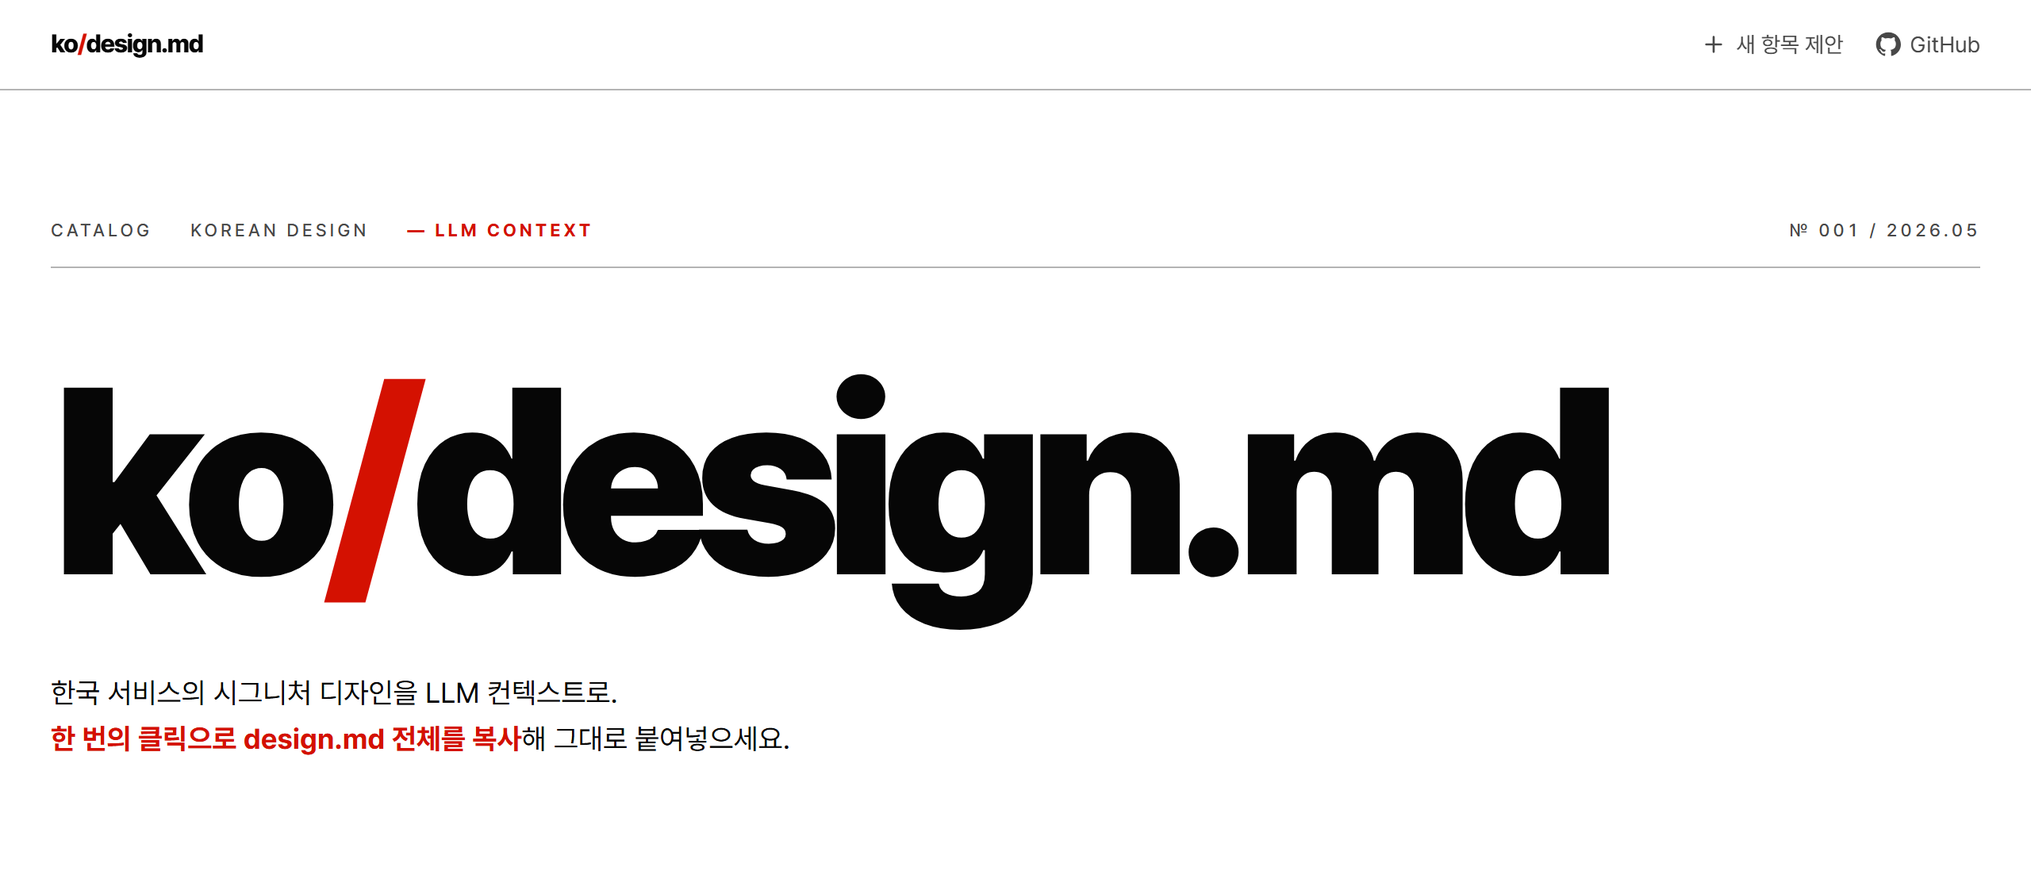
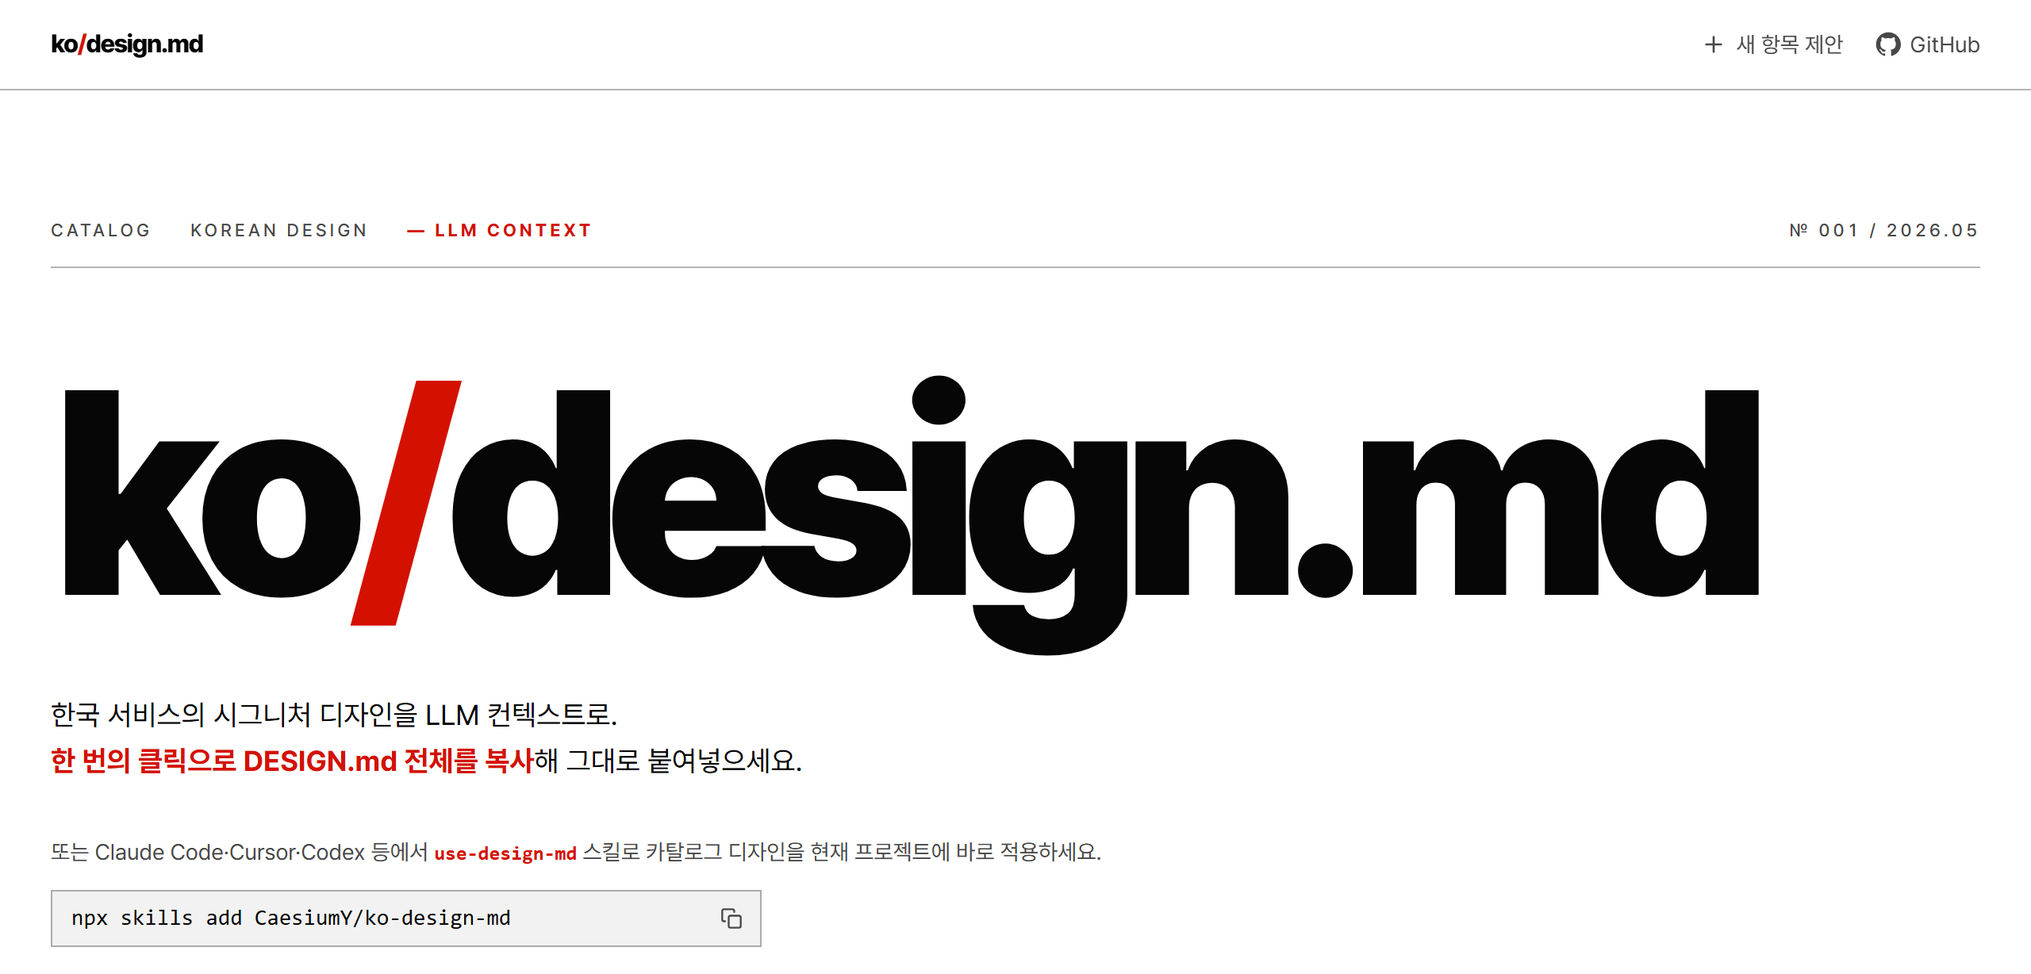
docs(readme): 독자 흐름으로 재구성하고 어긋난 사실을 바로잡는다
README 가 #353 의 용어집·PRD 정리 이후를 반영하지 못해 사실과 어긋나 있었다.

- 형식 이름: "Stitch v0.1 마크다운" 을 카탈로그 형식으로 (CONTEXT.md 가 Avoid 로 지정)
- 요구사항: Node 20+ 를 package.json engines 대로 22.22.2+ 로
- 항목 구성: 커밋하지 않는 OG 이미지를 표에서 빼 세 파일로
- /design-md: 서브에이전트를 부르므로 그걸 돌릴 수 있는 도구가 필요하다고 명시
- "13단계" 를 단계 이름 나열로 (단계 수는 조건부 단계로 가변)

빠져 있던 절을 더한다.

- 바로 쓰기: PRD 의 세 갈래 — 사이트 복사(주 경로) · use-design-md · 기계 엔드포인트 표와 마크다운 협상
  (네 엔드포인트와 협상은 www.getdesign.kr 에서 실측)
- 믿고 쓸 수 있는 이유: 인용 · Known Gaps · OKLCH+hex · 기계 게이트 · 프리뷰
- 더 읽을거리: CONTEXT.md · docs/adr/

배너는 라이브 홈이 design.md 를 DESIGN.md 로 바꾸고 스킬 안내를 더한 뒤라 같은 2x 로 다시 찍었다.
CONTRIBUTING 의 같은 표현 다섯 곳도 맞춰 두 문서가 서로 다른 말을 하지 않게 한다.
라이선스 표는 바이트 그대로 둔다(license-notice-consistency 가 그 줄을 읽는다).

diff --git a/README.md b/README.md
@@ -6,7 +6,7 @@
 
 # ko-design-md
 
-**한국 브랜드 디자인 시스템을 Stitch v0.1 마크다운으로 정리한 오픈 카탈로그**
+**한국 브랜드의 디자인 언어를, 출처가 달린 DESIGN.md 한 장으로**
 
 [![License: MIT](https://img.shields.io/badge/Code-MIT-blue.svg)](./LICENSE)
 [![Content: CC BY 4.0](https://img.shields.io/badge/Content-CC%20BY%204.0-lightgrey.svg)](./LICENSE-CONTENT)
@@ -22,28 +22,19 @@
 
 ## ko-design-md란?
 
-한국에서 운영되는 브랜드/서비스의 디자인 시스템(컬러·타이포그래피·컴포넌트·인터랙션 원칙)을 **Stitch v0.1** 구조화 마크다운으로 정리한 오픈 카탈로그입니다. 흩어지고, 비교하기 어렵고, 시간이 지나면 사라지는 디자인 시스템 자료를 다음 세 원칙으로 한곳에 모읍니다.
+LLM이나 코딩 에이전트에 "토스처럼 만들어 줘"라고 하면 결과가 매번 다르고, 그 브랜드답게 나오지도 않습니다. 브랜드가 공개한 디자인 자료는 여기저기 흩어져 있고 형식도 제각각이라 컨텍스트로 그대로 넣기 어렵습니다.
 
-- **단일 형식** — 모든 항목이 동일한 frontmatter + 섹션 구조라 비교·검색·임베딩이 쉬움
-- **자동화된 기여 흐름** — AI 코딩 에이전트용 [`/design-md` 스킬](#새-항목-기여)이 13단계 파이프라인으로 새 항목을 자동 생성
-- **시각적 검증** — 항목마다 프리뷰 HTML(라이트·다크 한 파일)과 OG 이미지를 함께 보관
+ko-design-md는 한국 브랜드의 디자인 언어(색·타이포그래피·간격·컴포넌트·원칙)를 브랜드당 **DESIGN.md** 한 장으로 정리한 오픈 카탈로그입니다. 모든 항목이 같은 형식이라 사람은 나란히 비교하며 읽고, 에이전트는 받아서 그대로 씁니다. 어떤 브랜드가 실려 있는지는 [getdesign.kr](https://getdesign.kr)에서 볼 수 있습니다.
 
-대상은 디자인 시스템을 **다루는** 디자이너·엔지니어, 그리고 한국 브랜드의 디자인 결정을 **연구하는** 사람입니다.
+## 바로 쓰기
 
-## 겉모습은 빌리되, 비즈니스는 베끼지 마세요
+### 1. 사이트에서 복사하기
 
-각 항목은 브랜드의 **시각/디자인 언어**(색·타이포·간격·컴포넌트의 *시각 패턴*)를 기술합니다. design.md를 AI 코딩 에이전트에 넣어 자기 제품을 만들 때는, 그 시각 패턴을 **자기 도메인에 맞게 번안**하세요.
+[getdesign.kr](https://getdesign.kr)에서 브랜드를 고르고, 상세 페이지의 **DESIGN.md 전체 복사** 버튼을 누르거나 파일로 내려받아 쓰고 있는 채팅·IDE에 붙여넣습니다. 가입도 설치도 필요 없습니다.
 
-- ✅ **차용**: 색 팔레트, 타이포 스케일, 간격 리듬, 컴포넌트의 시각 처리(둥글기·그림자·밀도)
-- ❌ **이식 금지**: 출처 브랜드의 제품 개념·플로우·카피 — 예) 토스의 송금 흐름, 배민의 ETA 의미를 성격이 다른 앱에 그대로 가져오기
+### 2. 코딩 에이전트에 스킬로 붙이기 — `use-design-md`
 
-`## Components`가 도메인 특화 이름(`button-cta`="구매하기", `EtaBanner`)을 쓰는 것은 출처를 정확히 기록하기 위함이지, 그 도메인을 함께 복사하라는 뜻이 아닙니다.
-
-## 카탈로그를 코딩 에이전트에서 바로 쓰기 — `use-design-md` 스킬
-
-호환되는 AI 코딩 에이전트라면 위 "차용" 과정을 [`use-design-md` 스킬](./.claude/skills/use-design-md/SKILL.md)로 자동화할 수 있습니다. 브랜드명만 주면 카탈로그에서 해당 `design.md`를 찾아 받아와 **지금 작업 중인 프로젝트**의 UI에 그 디자인 언어(색·타이포·간격·둥글기·컴포넌트)를 입힙니다. 카탈로그를 *읽는* 쪽이라 **어느 repo에서든 동작**합니다(새 항목을 *추가*하는 `/design-md` 생산자 스킬과 역할이 반대).
-
-### 설치 (택1)
+[`use-design-md` 스킬](./.claude/skills/use-design-md/SKILL.md)은 브랜드명만 받아 카탈로그에서 해당 DESIGN.md를 찾아 오고, **지금 작업 중인 프로젝트**의 UI에 그 디자인 언어를 입힙니다. 카탈로그를 읽기만 하므로 어느 저장소에서든 동작합니다(새 항목을 만드는 `/design-md` 스킬과는 반대 역할입니다).
 
 **모든 에이전트 (Claude Code·Cursor·Codex·Gemini 등) — [skills.sh](https://skills.sh)**
 
@@ -63,28 +54,61 @@ npx skills add CaesiumY/ko-design-md --list   # 포함 스킬 확인
 
 → 설치 후 호출: `/ko-design-md:use-design-md`
 
-설치하면 한 줄로 적용됩니다.
+설치하고 나면 한 줄이면 됩니다.
 
 ```text
 토스 디자인으로 이 대시보드 다시 꾸며줘
 ```
 
-내부적으로는 카탈로그 인덱스([`getdesign.kr/llms.txt`](https://getdesign.kr/llms.txt))로 슬러그를 찾고, 항목별 원본(`getdesign.kr/services/{slug}/llms.txt`)을 평문으로 받아 적용합니다. skills.sh를 쓰지 않는 도구라면 [`.claude/skills/use-design-md/`](./.claude/skills/use-design-md/) 디렉터리를 해당 도구의 스킬 경로로 복사하세요. 가져올 수 있는 브랜드 목록은 라이브 카탈로그 **[getdesign.kr](https://getdesign.kr)**에서 확인할 수 있습니다.
+스킬은 아래 3번의 카탈로그 색인으로 브랜드를 찾고, 항목별 DESIGN.md를 평문으로 받아 적용합니다. skills.sh를 쓰지 않는 도구라면 [`.claude/skills/use-design-md/`](./.claude/skills/use-design-md/) 디렉터리를 그 도구의 스킬 경로로 복사하세요.
+
+### 3. 주소로 직접 가져가기
+
+도구나 스크립트가 읽는 주소입니다. 모두 `https://getdesign.kr` 아래에 있고, `{slug}`는 상세 페이지 URL의 마지막 부분입니다.
+
+| 주소 | 내용 |
+|------|------|
+| `/llms.txt` | 카탈로그 색인 — 모든 항목을 한 줄씩 |
+| `/services/{slug}/llms.txt` | 항목의 DESIGN.md 그대로 (인용·References·메타데이터 포함) |
+| `/services/{slug}/DESIGN.md` | [DESIGN.md 명세](https://github.com/google-labs-code/design.md)만 아는 도구용 발행본 (명세에 자리가 없는 날짜·로고는 빠짐) |
+| `/.well-known/agent-skills/index.json` | 소비자 스킬 색인 |
+
+정규 URL(`/`, `/services/{slug}`)도 `Accept: text/markdown`으로 요청하면 HTML 대신 마크다운을 돌려줍니다.
+
+## 믿고 쓸 수 있는 이유
+
+값을 가져다 쓰려면 그게 정말 그 브랜드의 값인지 되짚을 수 있어야 합니다. 항목마다 다음을 지킵니다.
+
+- **주장에는 출처 번호가 붙습니다.** 본문의 `[src:N]`은 문서 끝 `## References`의 N번째 자료를 가리키고, 출처는 누구나 열어 볼 수 있는 공개 자료만 씁니다.
+- **모르는 것은 모른다고 적습니다.** 공개 자료로 대조하지 못한 값과 철회한 주장은 `## Known Gaps`에 모읍니다. 브랜드 발행물과 다시 대조한 결과는 해당 섹션 첫머리에 날짜와 함께 남깁니다.
+- **색은 OKLCH로 적고 브랜드 hex를 곁에 둡니다.** 둘이 맞는지는 기계가 대조합니다.
+- **병합 전에 기계 게이트를 통과해야 합니다.** CI가 frontmatter·섹션 순서·인용 번호·토큰 사이드카·프리뷰 구조를 검사하고, DESIGN.md 명세의 공식 린터도 돌립니다. 명세가 표현하지 못하는 브랜드 발행값(`50%` radius, 다중 스톱 그라디언트)은 버리지 않고 알려진 한계로 기록합니다.
+- **프리뷰로 눈으로 확인합니다.** 항목마다 그 디자인 언어로 그린 가상의 화면이 라이트·다크 두 테마로 딸려 있습니다.
+
+## 겉모습은 빌리되, 비즈니스는 베끼지 마세요
+
+각 항목은 브랜드의 **시각/디자인 언어**(색·타이포·간격·컴포넌트의 *시각 패턴*)를 기술합니다. DESIGN.md를 AI 코딩 에이전트에 넣어 자기 제품을 만들 때는, 그 시각 패턴을 **자기 도메인에 맞게 번안**하세요.
+
+- ✅ **차용**: 색 팔레트, 타이포 스케일, 간격 리듬, 컴포넌트의 시각 처리(둥글기·그림자·밀도)
+- ❌ **이식 금지**: 출처 브랜드의 제품 개념·플로우·카피 — 예) 토스의 송금 흐름, 배민의 ETA 의미를 성격이 다른 앱에 그대로 가져오기
+
+`## Components`가 도메인 특화 이름(`button-cta`="구매하기", `EtaBanner`)을 쓰는 것은 출처를 정확히 기록하기 위함이지, 그 도메인을 함께 복사하라는 뜻이 아닙니다.
 
 ## 항목 구성
 
-각 항목은 다음 4종으로 구성됩니다.
+항목 하나는 다음 세 파일로 이뤄집니다.
 
-| 산출물 | 위치 | 역할 |
-|--------|------|------|
-| DESIGN.md | `services/{slug}.md` | frontmatter(메타데이터·토큰) + Stitch v0.1 섹션 본문 |
+| 파일 | 위치 | 역할 |
+|------|------|------|
+| DESIGN.md | `services/{slug}.md` | frontmatter(메타데이터·토큰) + 본문. 항목의 정본 |
 | 토큰 사이드카 | `services/{slug}.tokens.json` | DESIGN.md 의 토큰에서 `pnpm tokens:build` 가 만든 파생물 (직접 편집하지 않음 — `pnpm tokens:check` 가 대조) |
-| 프리뷰 | `public/preview/{slug}/preview.html` | 자급자족형 single-file 미리보기 (라이트·다크 한 파일) |
-| OG 이미지 | `public/og/{slug}.png` | 소셜 카드용 1200×630 |
+| 프리뷰 | `public/preview/{slug}/preview.html` | 라이트·다크 두 테마를 함께 담은 자급자족형 HTML 한 장 |
 
-작성 규격은 [stitch-format.md](./.claude/skills/design-md/references/stitch-format.md)(본문 섹션 구조·토큰 표현)와 [기여 가이드](./CONTRIBUTING.md)(frontmatter 필드는 1절 체크리스트, slug·카테고리·언어 값 규칙은 [3절](./CONTRIBUTING.md#3-slug--카테고리--언어-태그-규칙))를 참고하세요.
+소셜 카드용 OG 이미지(`public/og/{slug}.png`, 1200×630)는 빌드가 만들고 커밋하지 않습니다.
 
-## 빠른 시작
+DESIGN.md는 Stitch의 섹션 구조에 DESIGN.md 명세의 토큰 맵과 이 카탈로그의 인용 규약을 더한 **카탈로그 형식**을 따릅니다. 세부 규격의 정본은 [stitch-format.md](./.claude/skills/design-md/references/stitch-format.md)(본문 섹션 구조·토큰 표현)와 [기여 가이드](./CONTRIBUTING.md)(frontmatter 필드는 1절 체크리스트, slug·카테고리·언어 값 규칙은 [3절](./CONTRIBUTING.md#3-slug--카테고리--언어-태그-규칙))입니다.
+
+## 로컬에서 사이트 띄우기
 
 ```bash
 git clone https://github.com/CaesiumY/ko-design-md.git
@@ -94,18 +118,18 @@ pnpm dev          # → http://localhost:3000
 pnpm build        # OG 이미지 생성 + 사이트 빌드
 ```
 
-요구사항: Node 20+, pnpm.
+요구사항: Node 22.22.2 이상, pnpm 10.
 
 ## 새 항목 기여
 
-호환되는 AI 코딩 에이전트에서 [`/design-md` 스킬](./CONTRIBUTING.md#1-새-항목-추가-권장-design-md-스킬-사용)을 한 줄로 호출하면 research → draft → review → preview HTML → OG까지 13단계로 자동 생성됩니다.
+새 브랜드를 카탈로그에 들이는 온보딩은 [`/design-md` 스킬](./CONTRIBUTING.md#1-새-항목-추가-권장-design-md-스킬-사용)이 진행합니다. 조사 → 초안 → 기계 게이트 → 리뷰 → 사용자 확인 → 프리뷰 → OG 이미지 순서이고, 사람은 사용자 확인 단계에서 초안을 승인합니다. 스킬이 서브에이전트 여러 개를 부르므로 Claude Code처럼 로컬 스킬·에이전트 워크플로를 실행할 수 있는 도구가 필요합니다.
 
 ```text
 /design-md
 {브랜드/서비스명}을 ko-design-md에 새 카탈로그 항목으로 추가해 주세요.
 ```
 
-생성된 4종(`services/{slug}.md`, `services/{slug}.tokens.json`, `public/preview/{slug}/preview.html`, `public/og/{slug}.png` — OG 이미지는 빌드 산출물이라 커밋하지 않음)을 `pnpm dev`로 확인하고, 한 커밋(`git commit -s` — DCO 서명)으로 묶어 PR을 올립니다. 사전 준비·13단계 상세·PR 체크리스트는 **[기여 가이드](./CONTRIBUTING.md)**를 참고하세요. 스킬 없이 손으로 기여하려면 [수동 PR 절차](./CONTRIBUTING.md#2-기존-항목-수정-스킬-미사용)를 따릅니다.
+만들어진 세 파일(`services/{slug}.md`, `services/{slug}.tokens.json`, `public/preview/{slug}/preview.html`)을 `pnpm dev`로 확인하고, 한 커밋(`git commit -s` — DCO 서명)으로 묶어 PR을 올립니다. 사전 준비·단계별 상세·PR 체크리스트는 **[기여 가이드](./CONTRIBUTING.md)**에 있습니다. 스킬 없이 손으로 고치려면 [수동 PR 절차](./CONTRIBUTING.md#2-기존-항목-수정-스킬-미사용)를 따릅니다.
 
 ## 라이선스
 
@@ -119,10 +143,11 @@ pnpm build        # OG 이미지 생성 + 사이트 빌드
 
 브랜드 로고와 프리뷰에 삽입된 브랜드 이미지는 식별·참조 목적으로 포함된 것이며 카탈로그 라이선스로 재배포되지 않습니다. 로고·콘텐츠 삭제 요청은 [SECURITY.md의 Takedown 안내](./SECURITY.md#브랜드-자산콘텐츠-삭제-요청-takedown)를 따릅니다.
 
-## 링크
+## 더 읽을거리
 
 - [기여 가이드](./CONTRIBUTING.md) · [행동 강령](./CODE_OF_CONDUCT.md) · [보안 정책](./SECURITY.md) · [변경 이력](./CHANGELOG.md)
-- [PRD](./docs/PRD.md) — 제품 스펙 (문제·해법·사용자 스토리·범위)
+- [제품 스펙](./docs/PRD.md) — 문제·해법·사용자 스토리·범위를 정하는 살아있는 문서
+- [용어집](./CONTEXT.md) · [결정 기록(ADR)](./docs/adr/) — 이 저장소가 쓰는 말과, 그렇게 정한 이유
 - [GitHub Issues](https://github.com/CaesiumY/ko-design-md/issues)
 
 ---

diff --git a/CONTRIBUTING.md b/CONTRIBUTING.md
@@ -8,7 +8,7 @@
 
 기여는 크게 세 가지로 나뉩니다.
 
-1. **새 카탈로그 항목 추가** — 한국 브랜드/서비스의 디자인 시스템을 Stitch v0.1 형식으로 카탈로그에 등록.
+1. **새 카탈로그 항목 추가** — 한국 브랜드/서비스의 디자인 언어를 카탈로그 형식의 DESIGN.md로 카탈로그에 등록.
 2. **기존 항목 수정/오타** — `services/*.md` 또는 `public/preview/**`의 정정·보강.
 3. **사이트 코드/문서/스킬 자체 개선** — TanStack Start 기반 사이트, 본 문서·README, 또는 `.claude/skills/`의 스킬 자체.
 
@@ -16,7 +16,7 @@
 
 ## 1. 새 항목 추가 (권장: `/design-md` 스킬 사용)
 
-본 카탈로그는 AI 코딩 에이전트에서 실행하는 `/design-md` 스킬이 13단계 파이프라인으로 새 항목 작성 전 과정을 자동화합니다. 직접 마크다운을 손으로 쓰는 것보다 일관성이 높고, 검토 점수 기반으로 품질을 보장합니다. 현재 저장소에는 Claude Code 호환 스킬 파일이 함께 제공됩니다.
+본 카탈로그는 AI 코딩 에이전트에서 실행하는 `/design-md` 스킬이 새 항목 작성 전 과정(온보딩)을 자동화합니다. 직접 마크다운을 손으로 쓰는 것보다 일관성이 높고, 검토 점수 기반으로 품질을 보장합니다. 현재 저장소에는 Claude Code 호환 스킬 파일이 함께 제공됩니다.
 
 ### 1-1. 사전 준비
 
@@ -54,14 +54,14 @@
 - 검토 방식: research, draft, preview 단계마다 확인을 요청해 주세요.
 ```
 
-스킬이 13단계 파이프라인을 실행합니다.
+스킬이 아래 단계를 차례로 실행합니다.
 
 1. **Stage 1: Preflight** — 레포 위치/날짜/패키지명/카테고리 enum 검증
 2. **Stage 2: Conversational intake** — 브랜드명·자료 URL·카테고리 3개 질문 (언어는 묻지 않는다 — 항목은 한국어 하나뿐이다, [ADR 0001](./docs/adr/0001-korean-design-md-only.md))
 3. **Stage 3: Slug 도출** — slug 확정과 기존 항목과의 충돌 처리
 4. **Stage 4: 캐시 준비** — 4a 로고 자산 배치, 4b 문서 사이트 크롤(URL 을 준 경우)
 5. **Stage 5: Research** — `research-collector`가 공개 자료를 수집해 `research.md` 작성
-6. **Stage 6: Author ⇄ Reviewer 루프 (≤3회)** — `design-md-author`가 `draft.md`를 Stitch v0.1 형식으로 작성하면, 먼저 **기계 게이트**(`pnpm validate:draft` — frontmatter·섹션 순서·OKLCH·인용 무결성)를 통과해야 `design-md-reviewer`가 점수화. 기계 실패는 리뷰 횟수를 소모하지 않고 author에게 즉시 되먹임. score ≥ 8/10 또는 3회 도달 시 종료.
+6. **Stage 6: Author ⇄ Reviewer 루프 (≤3회)** — `design-md-author`가 `draft.md`를 카탈로그 형식으로 작성하면, 먼저 **기계 게이트**(`pnpm validate:draft` — frontmatter·섹션 순서·OKLCH·인용 무결성)를 통과해야 `design-md-reviewer`가 점수화. 기계 실패는 리뷰 횟수를 소모하지 않고 author에게 즉시 되먹임. score ≥ 8/10 또는 3회 도달 시 종료.
 7. **Stage 7: 사용자 체크포인트** — 직접 검토·수정 후 승인
 8. **Stage 8: Write MD** — `services/{slug}.md` 저장 + `pnpm tokens:build` 로 `services/{slug}.tokens.json` 생성
 9. **Stage 9: Preview HTML 루프 (≤3회, non-blocking)** — 프리뷰 HTML 자동 생성 (라이트·다크가 한 파일). 여기도 리뷰 전 **기계 게이트**(`pnpm validate:previews` — 구조 block + 반응형 휴리스틱 warn + OKLCH 커버리지 메트릭)가 선행.
@@ -169,7 +169,7 @@ git push --force-with-lease
 ## 6. 사이트 코드/스킬 자체 기여
 
 - **사이트 코드**: TypeScript + TanStack Start. PR 전 `pnpm typecheck && pnpm lint && pnpm format:check && pnpm test && pnpm build` 통과 필수.
-- **스킬 (`.claude/skills/`)**: 영향이 크므로 변경 의도를 이슈에서 먼저 합의해주세요. 특히 `design-md/SKILL.md`의 13단계 파이프라인이나 reference 문서 (`stitch-format.md`, `rubric-design.md`, `rubric-preview.md`)를 바꾸는 PR은 사전 협의 필수. 스킬을 새로 추가하거나 공개/내부를 바꿀 때는 `src/lib/skill-asset-paths.ts`의 `PUBLIC_SKILLS`·`INTERNAL_SKILLS`에 선언하세요 — `pnpm test`(`src/lib/skill-distribution.test.ts`, CI 게이트)가 디렉터리·각 `SKILL.md`의 `metadata.internal`·`.claude-plugin/marketplace.json`을 서로 대조해, 선언 없이 들어온 스킬이나 마켓플레이스로 새는 내부 스킬을 막습니다.
+- **스킬 (`.claude/skills/`)**: 영향이 크므로 변경 의도를 이슈에서 먼저 합의해주세요. 특히 `design-md/SKILL.md`의 온보딩 파이프라인이나 reference 문서 (`stitch-format.md`, `rubric-design.md`, `rubric-preview.md`)를 바꾸는 PR은 사전 협의 필수. 스킬을 새로 추가하거나 공개/내부를 바꿀 때는 `src/lib/skill-asset-paths.ts`의 `PUBLIC_SKILLS`·`INTERNAL_SKILLS`에 선언하세요 — `pnpm test`(`src/lib/skill-distribution.test.ts`, CI 게이트)가 디렉터리·각 `SKILL.md`의 `metadata.internal`·`.claude-plugin/marketplace.json`을 서로 대조해, 선언 없이 들어온 스킬이나 마켓플레이스로 새는 내부 스킬을 막습니다.
 - **이슈 템플릿 (`.github/ISSUE_TEMPLATE/*.yml`)**: 새 템플릿을 추가하거나 기존 템플릿의 `labels:`를 바꿀 때는 그 라벨이 레포에 실제로 존재하는지 먼저 확인하세요 (`gh label list`). 존재하지 않는 라벨은 이슈 생성 시 GitHub이 아무 에러 없이 조용히 빼버립니다 — 새 라벨이면 `gh label create`로 만들고 `.github/labels.json`에도 반영해야 `pnpm test`(`src/lib/issue-template-labels.test.ts`, CI 게이트)가 통과합니다.
 
 ---
